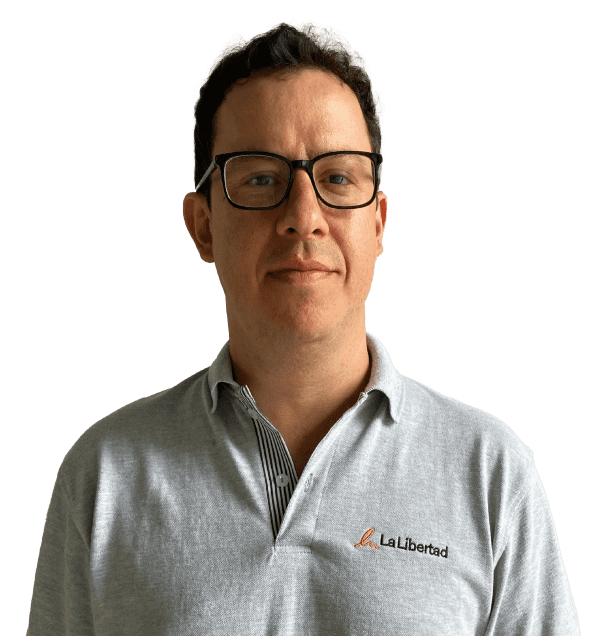
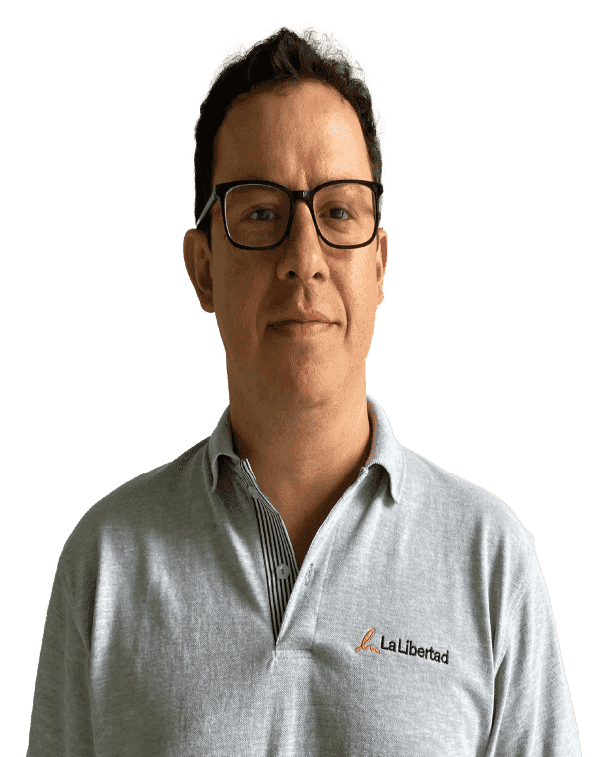
fix equipo cetav images

diff --git a/src/app/content/teamData.js b/src/app/content/teamData.js
@@ -38,7 +38,7 @@ const teamData = [
   },
   {
     name: 'Carmen Vargas',
-    position: 'Admisión y Registro',
+    position: 'Coordinadora de Postproducción Audiovisual y Proyectos',
     photo: '/images/carmen-vargas.png',
   },
   {
@@ -54,7 +54,7 @@ const teamData = [
   {
     name: 'Ricardo Gutiérrez',
     position: 'Profesor Centros de Cómputo',
-    photo: '/images/ricardo-gutiérrez.png',
+    photo: '/images/ricardo-gutierrez.png',
   },
   {
     name: 'Keylor Berrocal',

diff --git a/src/app/components/OurTeam.jsx b/src/app/components/OurTeam.jsx
@@ -14,7 +14,7 @@ const OurTeamCard = () => {
             borderRadius="lg"
             position="relative"
             width="300px"
-            height="320px"
+            height="360px"
             bg="gray"
           >
             <Image
